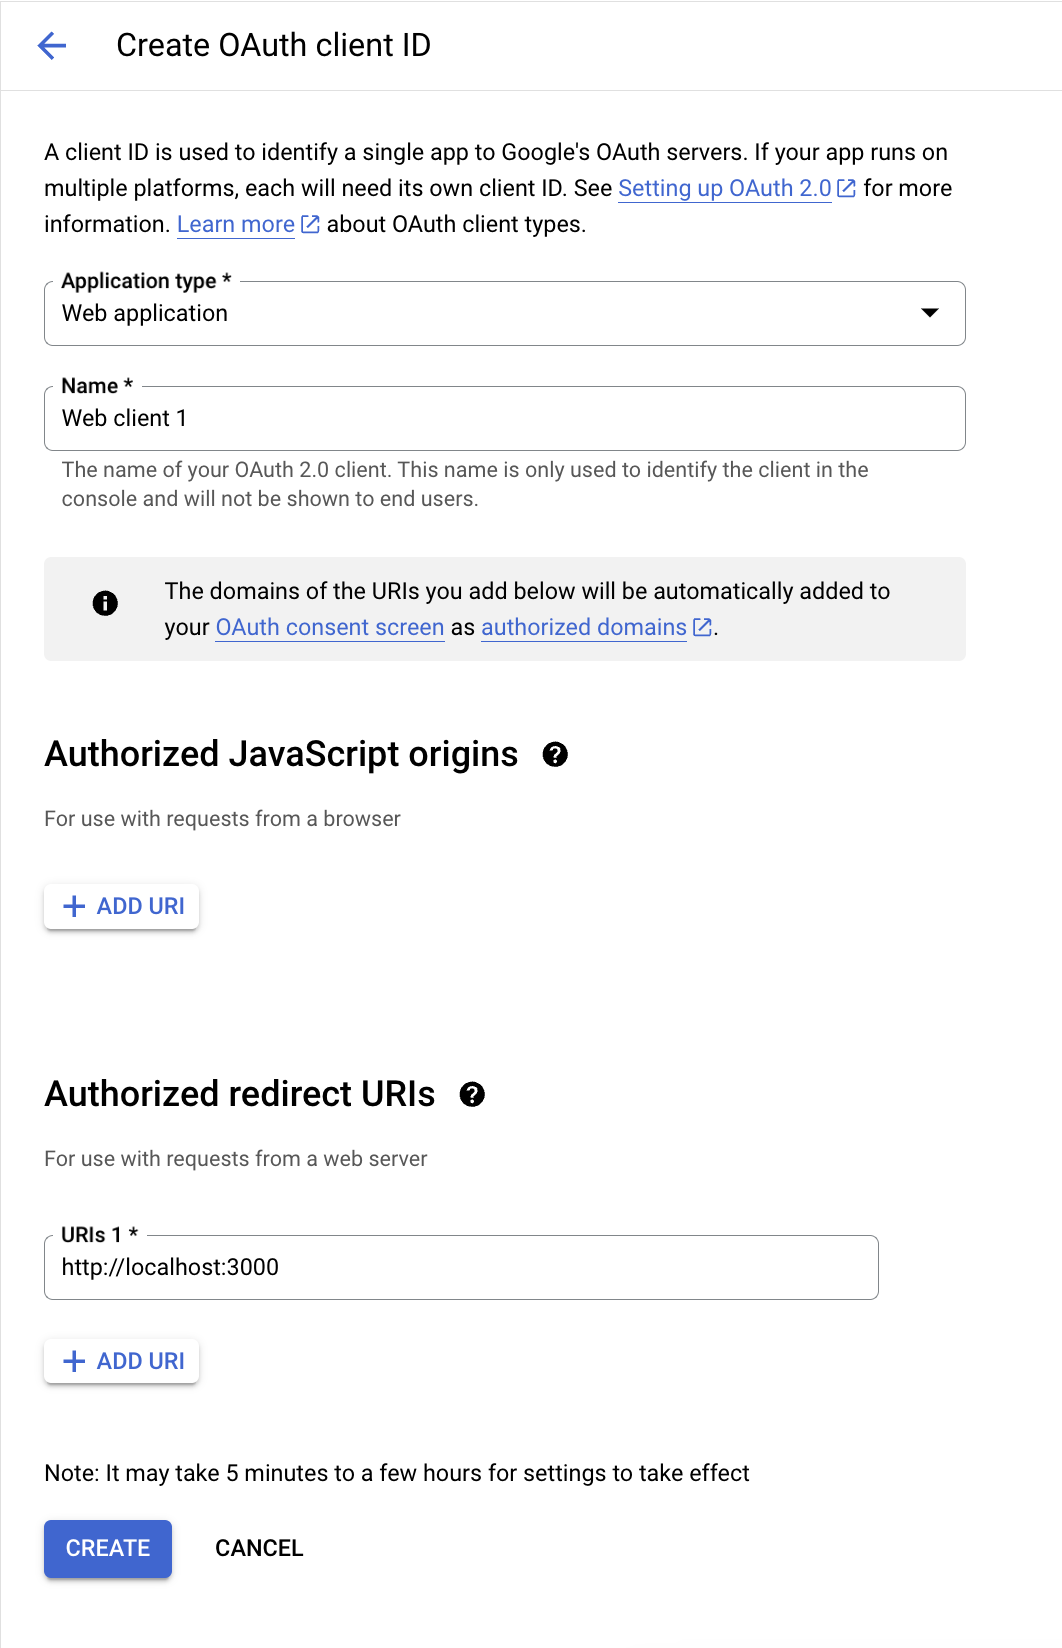
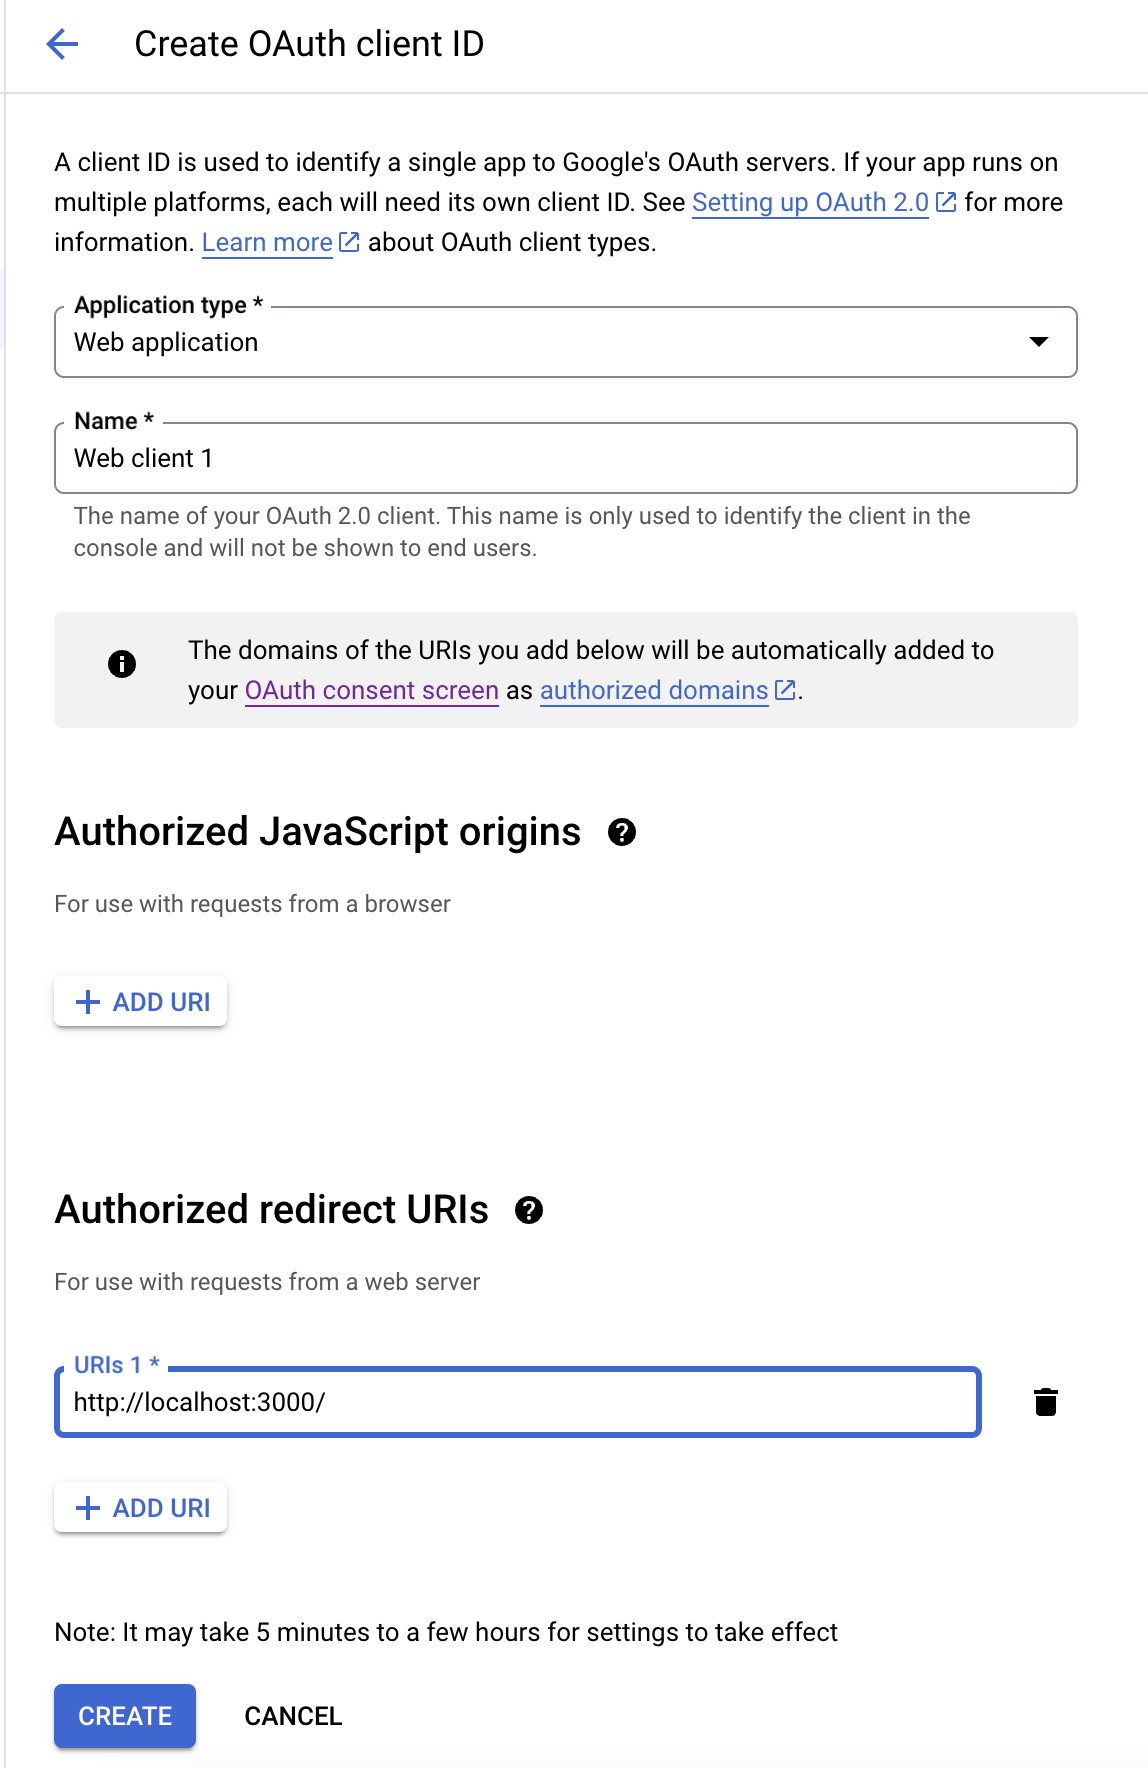
README
Fixed redirect url - added slash at end

diff --git a/README.md b/README.md
@@ -156,7 +156,7 @@ You will need to set up a Google Auth API key to use the Google Sign-In feature 
     ![Create OAuth client ID](images/create-credential.png)
 
 3. Select `Web application` as the application type.
-4. Add `http://localhost:3000` to the `Authorized redirect URIs`.
+4. Add `http://localhost:3000/` to the `Authorized redirect URIs`.
 
     Your setup should look something like this:
     ![OAuth setup](images/authorized-url.png)
